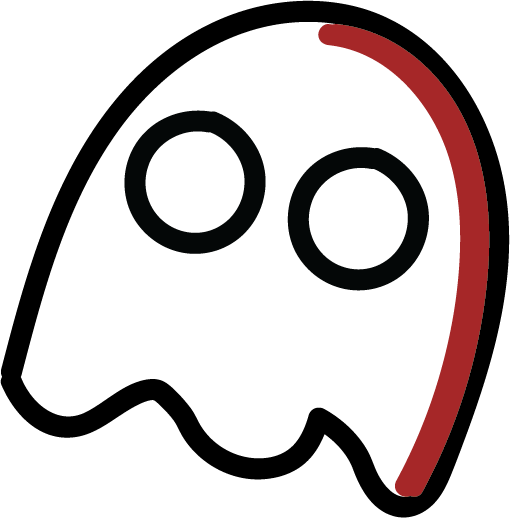
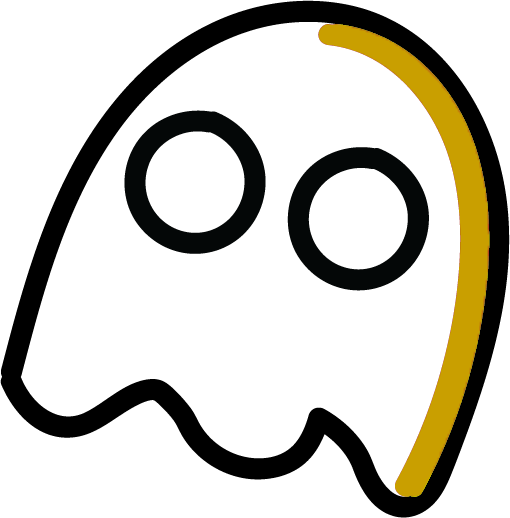
spooky

Changed region(s): [[0.6176, 0.0309, 0.9706, 0.9575]]

diff --git a/public/g.html b/public/g.html
@@ -120,24 +120,24 @@ display: none;
 
     <button class="barbutton" id="barButton" onclick="openTopbar()"><span class="material-symbols-outlined">arrow_downward</span></button>
     <!--Topbar container-->
-    <div class="topbar" id="topbar">
+    <div class="topbar" id="topbar" style="color: #ff882d;">
       <div class="topbar-content">
         <button class="topbtn" id="topbttn" onclick="closeTopbar()">
-          <span class="material-symbols-outlined"> arrow_upward </span>
+          <span class="material-symbols-outlined" style="color: #ff882d;"> arrow_upward </span>
         </button>
         
         <button class="topbtn" id="panelbttn" onclick="openswitchpanel()">
-          <span class="material-symbols-outlined"> page_info </span>
+          <span class="material-symbols-outlined" style="color: #ff882d;"> page_info </span>
         </button>
         
       <button class="topbtn" id="fwdbttn" onclick="forward()" style="left: 10px;">
-        <span class="material-symbols-outlined"> arrow_forward </span>
+        <span class="material-symbols-outlined" style="color: #ff882d;"> arrow_forward </span>
       </button>
       <button class="topbtn" id="rfshbttn" onclick="refresh()" style="left: 30px;">
-        <span class="material-symbols-outlined"> refresh </span>
+        <span class="material-symbols-outlined" style="color: #ff882d;"> refresh </span>
       </button>
       <button class="topbtn" id="bckbttn" onclick="back()" style="left: 30px;">
-        <span class="material-symbols-outlined"> arrow_back </span>
+        <span class="material-symbols-outlined" style="color: #ff882d;"> arrow_back </span>
       </button>
       <input type="text" class="search" id="forminput" placeholder="Search Or Enter A URL..">
     </div>

diff --git a/public/index.html b/public/index.html
@@ -53,12 +53,12 @@
         <p style="margin: 0; padding-top: 0" style="animation: fadeIn 2s">
           <span style="animation: owo 0.5s">A </span>
           <span style="animation: owo 0.5s; animation-delay: 0.5s">cool</span>
-          <span style="animation: owo 0.5s; animation-delay: 1s"> Ga<x>m</x>es</span>
-          <span style="animation: owo 0.5s; animation-delay: 1.5s">
+          <span style="animation: owo 0.5s; animation-delay: 1s; color: #e9a40e;"> spooky</span>
+          <span style="animation: owo 0.5s; animation-delay: 1.5s; color: #e9a40e">
             Website</span
           >
             <span
-            style="animation: owo 0.5s; animation-delay: 2s; color: #5ffe43"
+            style="animation: owo 0.5s; animation-delay: 2s; color: #e9a40e"
           >
             :D</span
           >

diff --git a/public/l.html b/public/l.html
@@ -17,13 +17,13 @@
     <meta name="description" content="A Pretty Cool Site :D" />
     <style>
       a:link {
-        color: white;
+        color: #f3812a;
         background-color: transparent;
         text-decoration: none;
       }
 
       a:visited {
-        color: white;
+        color: #f3812a;
         background-color: transparent;
         text-decoration: none;
       }
@@ -37,11 +37,11 @@
         }
         0% {
           transform: translateY(-20px);
-          color: white;
+          color: #f3812a;
         }
         100% {
           transform: translateY(0px);
-          color: white;
+          color: #f3812a;
         }
       }
     </style>

diff --git a/public/algebra.html b/public/algebra.html
@@ -30,7 +30,7 @@
         <br>
         <br>
 <p class="ex2">Apps</p>
-<p>You can request Apps on the <span style="color: #5ffe43" onclick="window.location.href = ('https://dsc.gg/The-Ghost-Network')"><shadow-root text_c="Discord"></shadow-root> Server!</span></p>
+<p>You can request Apps on the <span style="color:#e9a40e" onclick="window.location.href = ('https://dsc.gg/The-Ghost-Network')"><shadow-root text_c="Discord"></shadow-root> Server!</span></p>
     </center>
     <div class="game-columns" style="background-color: transparent;">
         <div class="gamecolumn">

diff --git a/public/assets/css/index.css b/public/assets/css/index.css
@@ -4,7 +4,7 @@
 :root {
   --Background-Color: #171717;
   --text-color: white;
-  --Primary-Color: #ff6666;
+  --Primary-Color: #e9a40e;
   --Secondary-Color: #333333;
   --Third-Color: #f84545;
 }
@@ -381,7 +381,7 @@ xn {
   border-top-left-radius: 10px;
   border-top-right-radius: 10px;
   height: 10%;
-  color: var(--text-color);
+  color: #e9a40e;
   border-bottom: 3px solid white;
 }
 
@@ -391,7 +391,7 @@ xn {
   border-bottom-left-radius: 10px;
   border-bottom-right-radius: 10px;
   height: 20%;
-  color: white;
+  color: #e9a40e;
 }
 
 .active {

diff --git a/public/school/index.html b/public/school/index.html
@@ -25,7 +25,7 @@
        <br>
 <br>
 <p class="ex2">Games</p>
-<p>You can request games on the <span style="color: #5ffe43" onclick="window.location.href = ('https://dsc.gg/The-Ghost-Network')">Discord Server!</span></p>
+<p>You can request games on the <span style="color: #e9a40e" onclick="window.location.href = ('https://dsc.gg/The-Ghost-Network')">Discord Server!</span></p>
     </center>
     <div>
       <center>

diff --git a/public/browser.html b/public/browser.html
@@ -27,7 +27,7 @@ crossorigin="anonymous"
 <nav id="nav" class="navbar"></nav>
 <br>
 
-        <p align="center" class="ex2"><img id="logo2" src="/assets/img/Ghost.png" height="200"></p>
+        <p align="center" class="ex2"><img id="logo2" src="/school/ghost.png" height="200"></p>
         <center>
 <!--Title shit lol-->
             <p class="ex3">Ghost Sea<span>rch</span></p>
